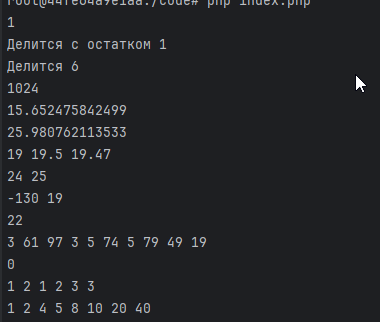
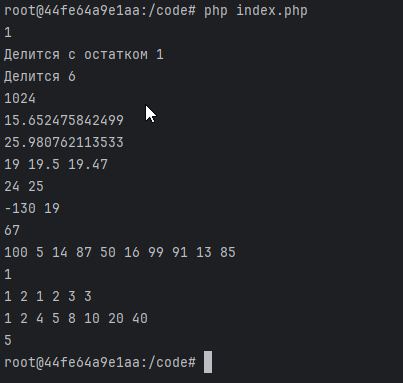
fixed. Forgot last mini_task in task14

diff --git a/lab2/code/index.php b/lab2/code/index.php
@@ -138,6 +138,17 @@ for ($i=0;$i<count($arr);$i++){
 }
 echo "\n";
 
-
+$arr=array(1, 2, 3, 4, 5, 6, 7, 8, 9, 10);         //простой алгоритм... всё прозрачно
+$max_sum=10;
+$arr_sum=0;
+$quantity=0;
+for ($i=0; $i<count($arr);$i++){
+    $arr_sum+=$arr[$i];
+    $quantity++;
+    if ($arr_sum>$max_sum){
+        break;
+    }
+}
+echo $quantity,"\n";
 
 
